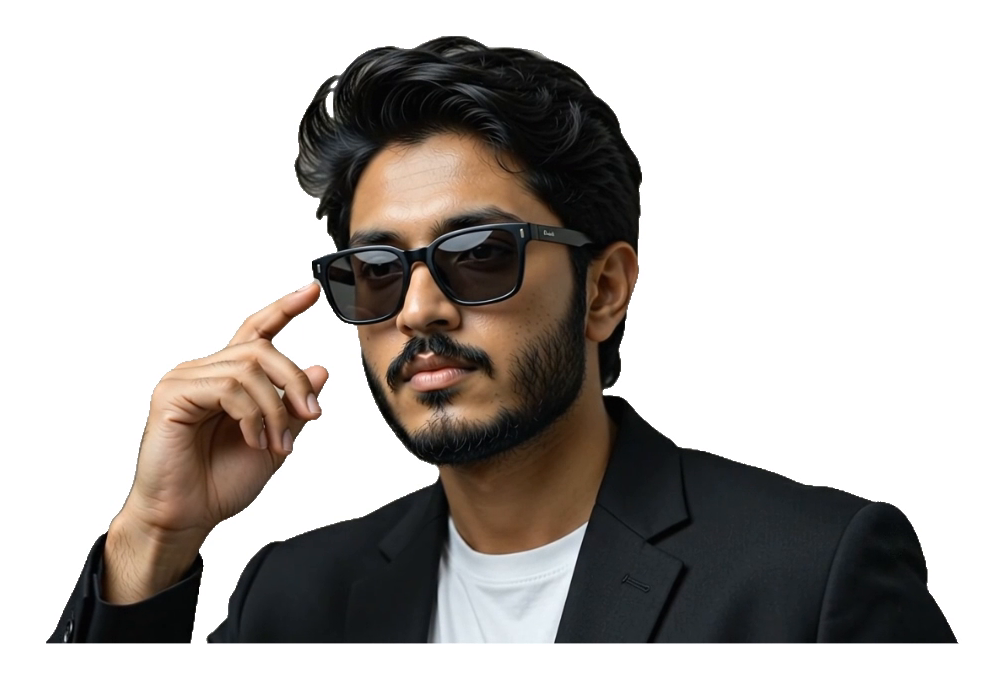
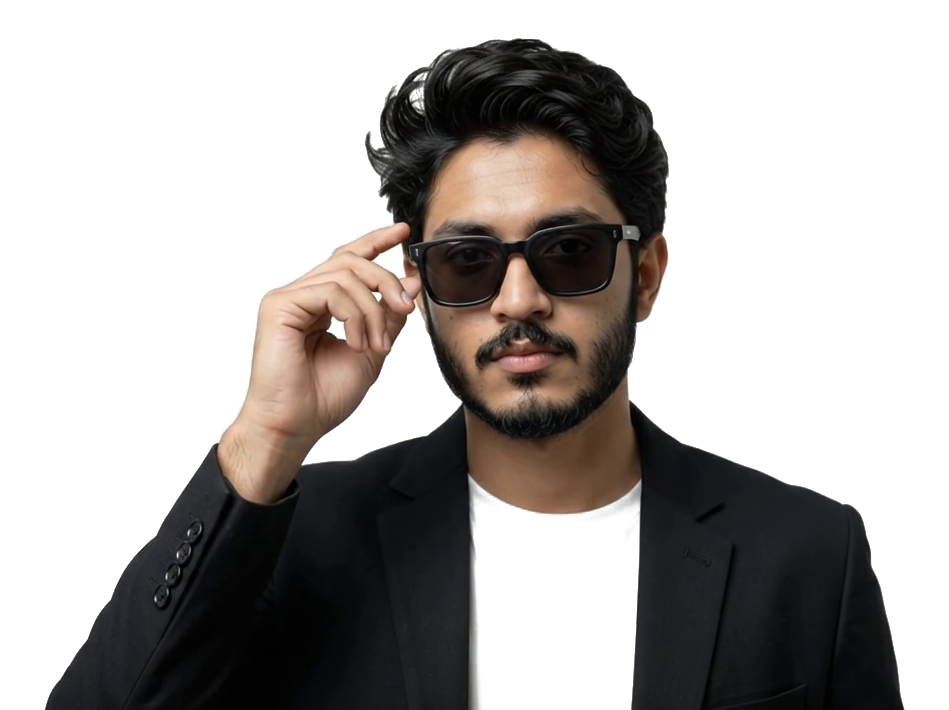
feat: Hero from the new Gemini clip, graded to pure white
new(argon).mp4 replaces no bg 1.mp4. Its background was light grey with
a vignette (223-244, nothing at 255), so it is graded first by
src/dev/grade-to-white.py: one fixed, chroma-gated curve that lifts bright
neutral pixels to 255 and leaves skin untouched (mean change 0.00), with no
per-frame estimation to flicker. Background is 99.8% pure white after.

Re-baked at sampleWidth 800 (593x444 frames, up from 517x353), re-cut the
lens still from frame 36 at native resolution (949x710) and re-measured
the lens.

diff --git a/src/dev/grade-to-white.py b/src/dev/grade-to-white.py
@@ -1,0 +1,68 @@
+"""Lift a near-white studio background to pure white, before baking.
+
+Usage (from portfolio-3d/):
+    ffmpeg -i "../new(argon).mp4" -vf fps=3.6 /tmp/raw/f%03d.png
+    python src/dev/grade-to-white.py /tmp/raw public/_bake-frames
+
+Then run src/dev/bake.html as usual. Needs Python 3 with numpy and Pillow
+(a dev tool only; nothing here ships).
+
+Why it exists: the Hero relies on the clip's background being exactly the
+page's #ffffff, so the frames merge into the page with no visible box (see
+"The Hero keeps its background" in CLAUDE.md). The Gemini/Veo clip arrived
+light grey with a vignette: 223 in the top corners, 244 at mid-edges, and no
+pixel at 255. On the white page that is a grey rectangle with dark corners.
+
+How: one fixed curve, applied identically to every frame, that lifts bright
+NEUTRAL pixels to white and leaves anything coloured alone.
+  - Fixed, not estimated per frame. A matte or level fitted per frame
+    wobbles wherever the estimate is marginal, and that wobble was the old
+    Hero's flicker. A constant function of the pixel cannot drift.
+  - Gated on chroma (max - min channel). The wall measured 0-2, skin at its
+    brightest 30+. A brightness-only curve also flattened forehead and hand
+    highlights; with the chroma gate, skin moved by exactly 0.00 on average.
+    The white tee is neutral and does go to pure white, which is fine: it
+    sits inside the blazer, so the blazer still draws its shape.
+
+Measured on new(argon).mp4: background 99.8% at 255 on every sampled frame,
+the rest being the antialiased edge of the silhouette.
+"""
+import sys
+from pathlib import Path
+
+import numpy as np
+from PIL import Image
+
+# Brightness ramp: untouched below K0, fully white from K1. K1 sits under the
+# darkest background corner (223) with margin.
+K0, K1 = 170.0, 218.0
+# Chroma gate: fully lifted at or below C0, untouched from C1.
+C0, C1 = 10.0, 26.0
+
+
+def smoothstep(e0: float, e1: float, x: np.ndarray) -> np.ndarray:
+    t = np.clip((x - e0) / (e1 - e0), 0.0, 1.0)
+    return t * t * (3.0 - 2.0 * t)
+
+
+def grade(rgb: np.ndarray) -> np.ndarray:
+    a = rgb.astype(np.float64)
+    lum = a.mean(axis=2)
+    chroma = a.max(axis=2) - a.min(axis=2)
+    lift = smoothstep(K0, K1, lum) * (1.0 - smoothstep(C0, C1, chroma))
+    # Monotonic in each channel: x + (255 - x) * s never decreases.
+    return np.clip(np.round(a + (255.0 - a) * lift[..., None]), 0, 255).astype(np.uint8)
+
+
+def main() -> None:
+    src, out = Path(sys.argv[1]), Path(sys.argv[2])
+    out.mkdir(parents=True, exist_ok=True)
+    frames = sorted(src.glob('*.png'))
+    for i, path in enumerate(frames, start=1):
+        rgb = np.asarray(Image.open(path).convert('RGB'))
+        Image.fromarray(grade(rgb)).save(out / f'frame{i:03d}.png')
+    print(f'graded {len(frames)} frames into {out}')
+
+
+if __name__ == '__main__':
+    main()

diff --git a/CLAUDE.md b/CLAUDE.md
@@ -138,7 +138,9 @@ The Hero is one pinned sequence, 250% of the viewport long. Spec: `docs/superpow
 
 **`matte: 'none'` is the default, and it is why this Hero finally stopped flickering.** Every matte in this module is an estimate recomputed per frame, so wherever the estimate is marginal it wobbles frame to frame, and that wobble *is* the flicker. Three separate attempts fought it with better estimates (flood fill with a shared reference, then a green screen, then tuning both). The fix was to stop estimating. The source clip `no bg 1.mp4` arrives already matted onto pure white, and the Hero now sits on a pure white page, so the background can simply be **kept**: the frame's white and the page's white are the same colour, so the rectangle has no visible edge, and the silhouette that used to shimmer is no longer a boundary between two different things. **A matte that is never computed cannot drift.**
 
-Measured on that clip before committing to it: background exactly `255,255,255` at every sampled point in all 36 sampled frames, 86.4% of pixels pure white, **zero** non-white pixels touching the frame border, and the antialiased edge only 0.41% of pixels, concentrated at 252-254. Left/right/top edges of the union crop are 0-0.15% subject, i.e. real white margin. The browser decodes those frames to exactly 255 and canvas-downscales them to exactly 255, so the merge is pixel-exact rather than merely close.
+**The current clip is `new(argon).mp4`** (Gemini/Veo, 1280x720, 10s), which replaced `no bg 1.mp4`. Unlike that one it did not arrive on pure white: the background was light grey with a vignette (223 in the top corners, 244 at mid-edges, no pixel at 255), which on the page would have shown as a grey box with dark corners. **It is graded to white before baking by `src/dev/grade-to-white.py`**, one fixed curve that lifts bright *neutral* pixels to 255 and leaves coloured ones alone. That still honours the rule above: it is a constant function of each pixel, not an estimate fitted per frame, so it cannot drift or flicker (the background varied by under 1 level across frames to begin with). The chroma gate is what keeps skin untouched: the wall measured 0-2 in chroma and bright skin 30+, so skin changed by exactly 0.00 on average, where a brightness-only curve had flattened the forehead and hand. After grading, 99.8% of the background is 255 on every sampled frame, with zero non-white pixels on the top, left and right frame borders. The bake for it used `sampleWidth: 800` (not the default 560), because this clip frames the subject smaller; that gives 593x444 frames against the old 517x353. Its `bottomCutFraction` is 1: the shoulders run to the bottom edge, which the role band covers. The lens still was re-cut from the graded frame 36 at native resolution (949x710, located by template match, error 1.29) and its lens re-measured by eye: `x 0.5975, y 0.369, r 0.0423`.
+
+The measurements below are for the previous clip and are kept for the reasoning. Measured on that clip before committing to it: background exactly `255,255,255` at every sampled point in all 36 sampled frames, 86.4% of pixels pure white, **zero** non-white pixels touching the frame border, and the antialiased edge only 0.41% of pixels, concentrated at 252-254. Left/right/top edges of the union crop are 0-0.15% subject, i.e. real white margin. The browser decodes those frames to exactly 255 and canvas-downscales them to exactly 255, so the merge is pixel-exact rather than merely close.
 
 **This works only while three things stay true, and all three are easy to break:**
 
